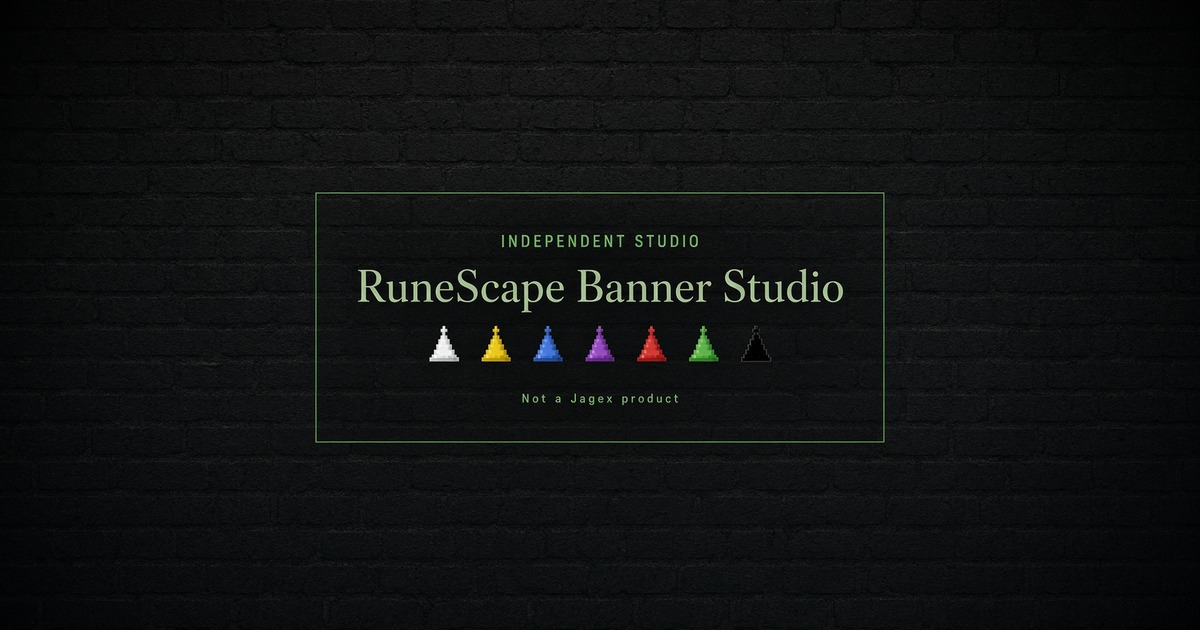
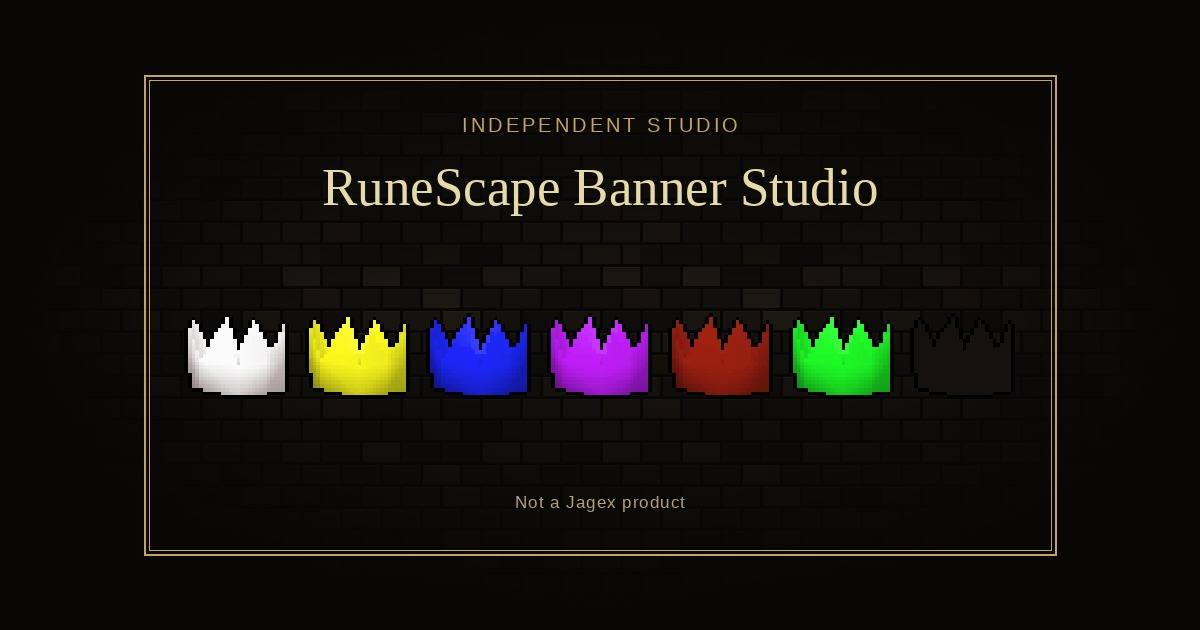
OG and X cards use the real partyhat sprites, not cones.

diff --git a/src/routes/__root.tsx b/src/routes/__root.tsx
@@ -20,8 +20,8 @@ export const Route = createRootRoute({
   head: () => {
     const host = publicAppHost();
     const origin = host ? `https://${host}` : "";
-    const xBanner = origin ? `${origin}/x-banner.jpg?v=20260922g` : "";
-    const ogImage = origin ? `${origin}/og.jpg?v=20260922g` : "";
+    const xBanner = origin ? `${origin}/x-banner.jpg?v=20260922h` : "";
+    const ogImage = origin ? `${origin}/og.jpg?v=20260922h` : "";
     const desc =
       "RuneScape Banner Studio. Independent fan desk for Old School RuneScape and RuneScape banners. Not a Jagex product.";
     return {
